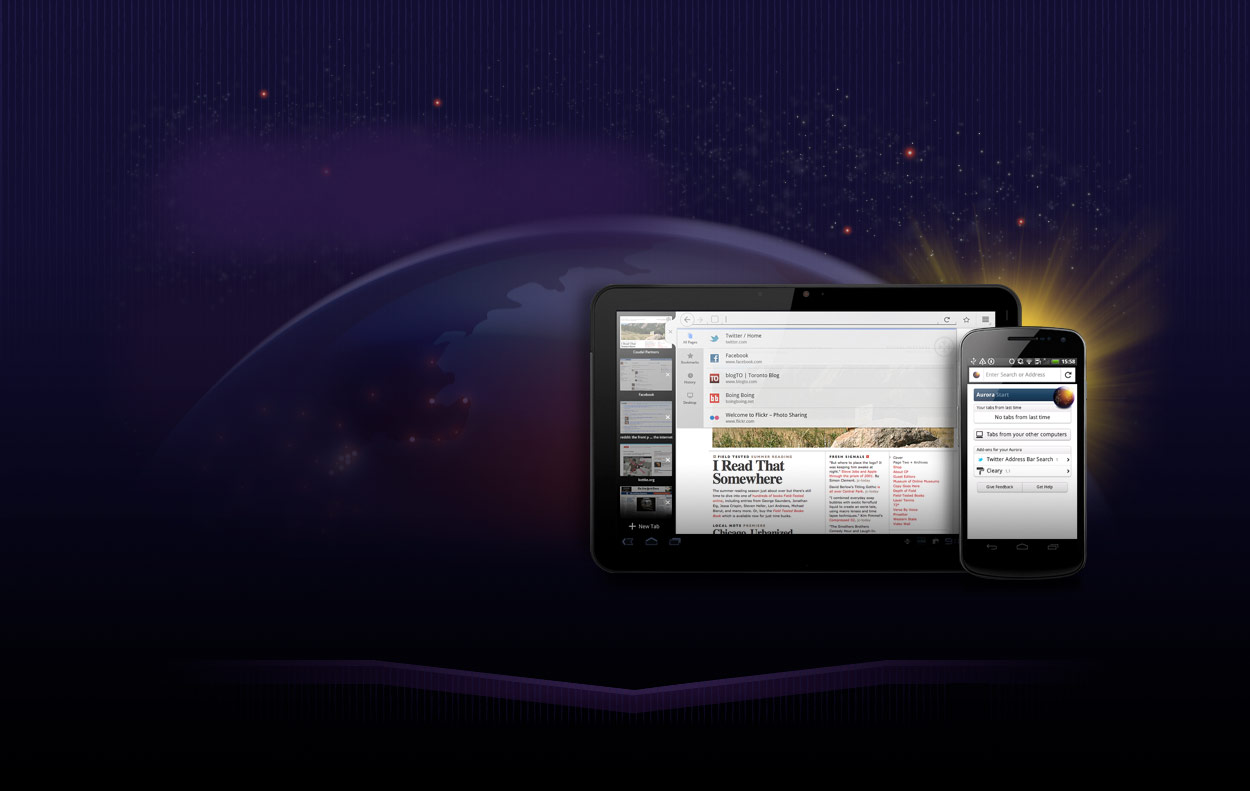
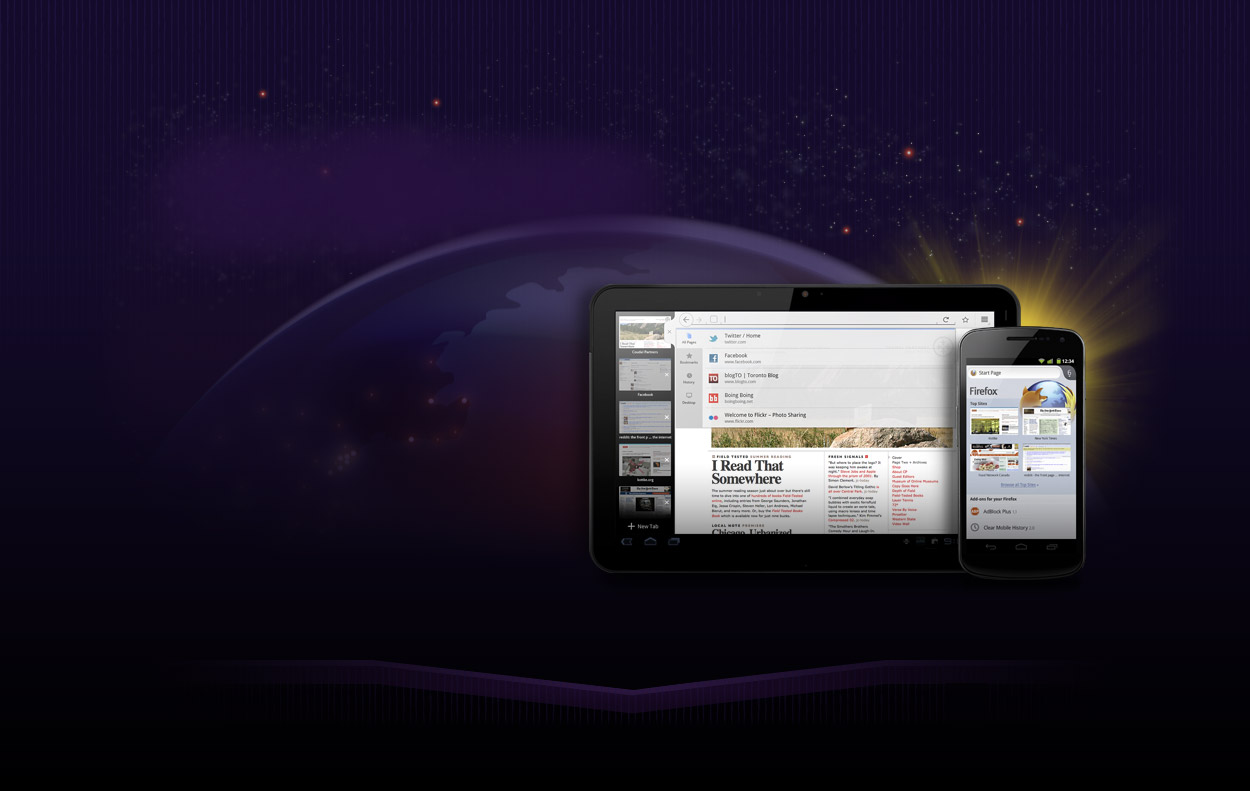
Bug 712110 - [Firefox Aurora] Update Screenshot in Firefox Aurora Mobile Page
git-svn-id: svn+ssh://svn.mozilla.org/projects/mozilla.com/trunk@99722 4eb1ac78-321c-0410-a911-ec516a8615a5

Changed region(s): [[0.4992, 0.3944, 0.8736, 0.6979], [0.5304, 0.4248, 0.624, 0.5461], [0.468, 0.5158, 0.4992, 0.5461]]

diff --git a/style/covehead/mobile-aurora.css b/style/covehead/mobile-aurora.css
@@ -1,10 +1,12 @@
 /* {{{ Template */
 
 body#aurora-mobile {
+    background: #000 url(/img/covehead/mobile/aurora/bg.jpg) 50% 0 repeat-x;
     color: #d3d3d3;
-    background-color: #000;
-    background-image: url(/img/covehead/firefox/aurora/background.jpg);
-    background-repeat: no-repeat;
+}
+
+body#aurora-mobile #wrapper {
+    background: url(/img/covehead/mobile/aurora/bg-feature.jpg) 50% 0 no-repeat;
 }
 
 #aurora-mobile #main-content a,
